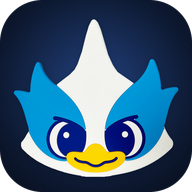
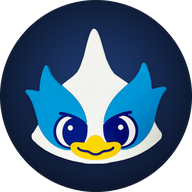
브라우저·탭 아이콘을 동그란 아길레온으로 (원 바깥 투명)
Claude-Session: https://claude.ai/code/session_01M3UeuGaCBuTPG4WamUftTM

diff --git a/docs/index.html b/docs/index.html
@@ -8,10 +8,10 @@
 <meta name="apple-mobile-web-app-capable" content="yes">
 <meta name="apple-mobile-web-app-status-bar-style" content="black-translucent">
 <meta name="apple-mobile-web-app-title" content="투자 레이더">
-<link rel="manifest" href="manifest.webmanifest?v=2">
-<link rel="icon" type="image/png" sizes="32x32" href="favicon-32.png?v=2">
-<link rel="icon" type="image/png" sizes="192x192" href="icon-192.png?v=2">
-<link rel="apple-touch-icon" href="apple-touch-icon.png?v=2">
+<link rel="manifest" href="manifest.webmanifest?v=3">
+<link rel="icon" type="image/png" sizes="32x32" href="favicon-32.png?v=3">
+<link rel="icon" type="image/png" sizes="192x192" href="icon-192.png?v=3">
+<link rel="apple-touch-icon" href="apple-touch-icon.png?v=3">
 <title>투자 레이더</title>
 <link rel="preconnect" href="https://cdn.jsdelivr.net" crossorigin>
 <link rel="stylesheet" href="https://cdn.jsdelivr.net/gh/orioncactus/pretendard@v1.3.9/dist/web/variable/pretendardvariable-dynamic-subset.min.css">

diff --git a/docs/sw.js b/docs/sw.js
@@ -1,5 +1,5 @@
 // 투자 레이더 앱 껍데기: 화면 파일은 늘 새로 받고(인터넷이 안 될 때만 저장본), 시세·공시 데이터는 저장하지 않아요.
-const CACHE = "radar-shell-v2";
+const CACHE = "radar-shell-v3";
 const SHELL = ["./", "index.html", "manifest.webmanifest", "icon-192.png", "icon-512.png", "icon-maskable-512.png"];
 
 self.addEventListener("install", (e) => {
